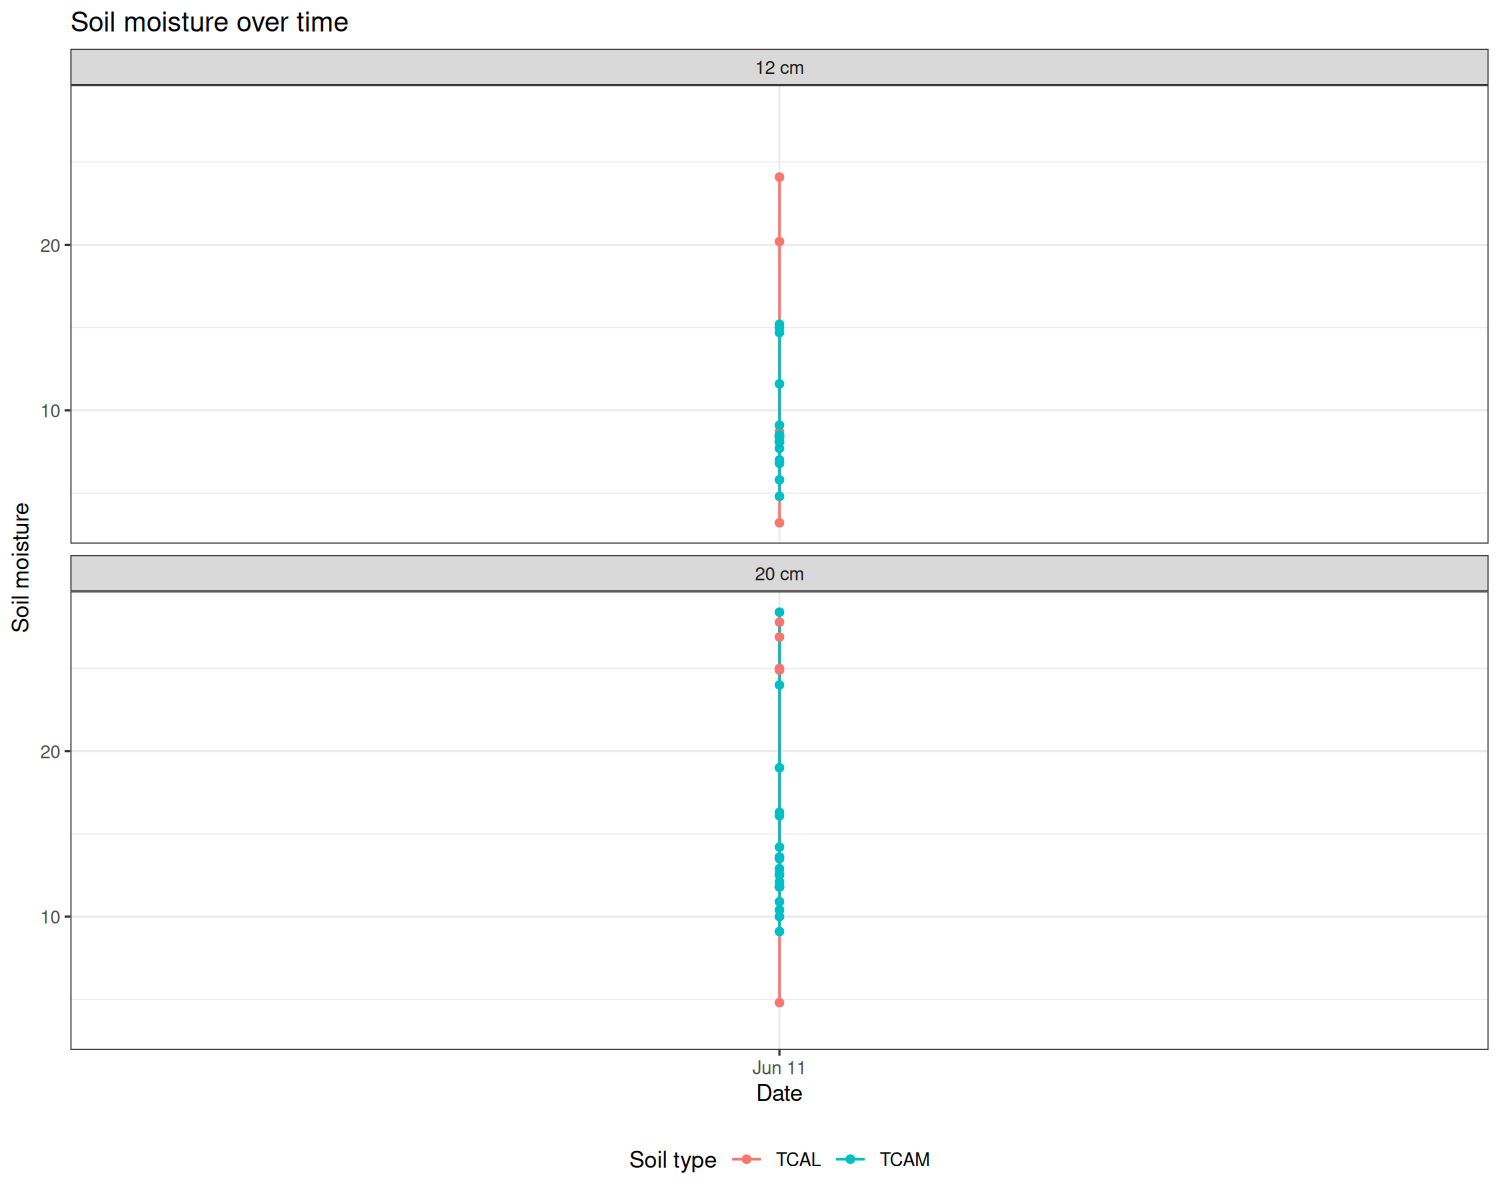
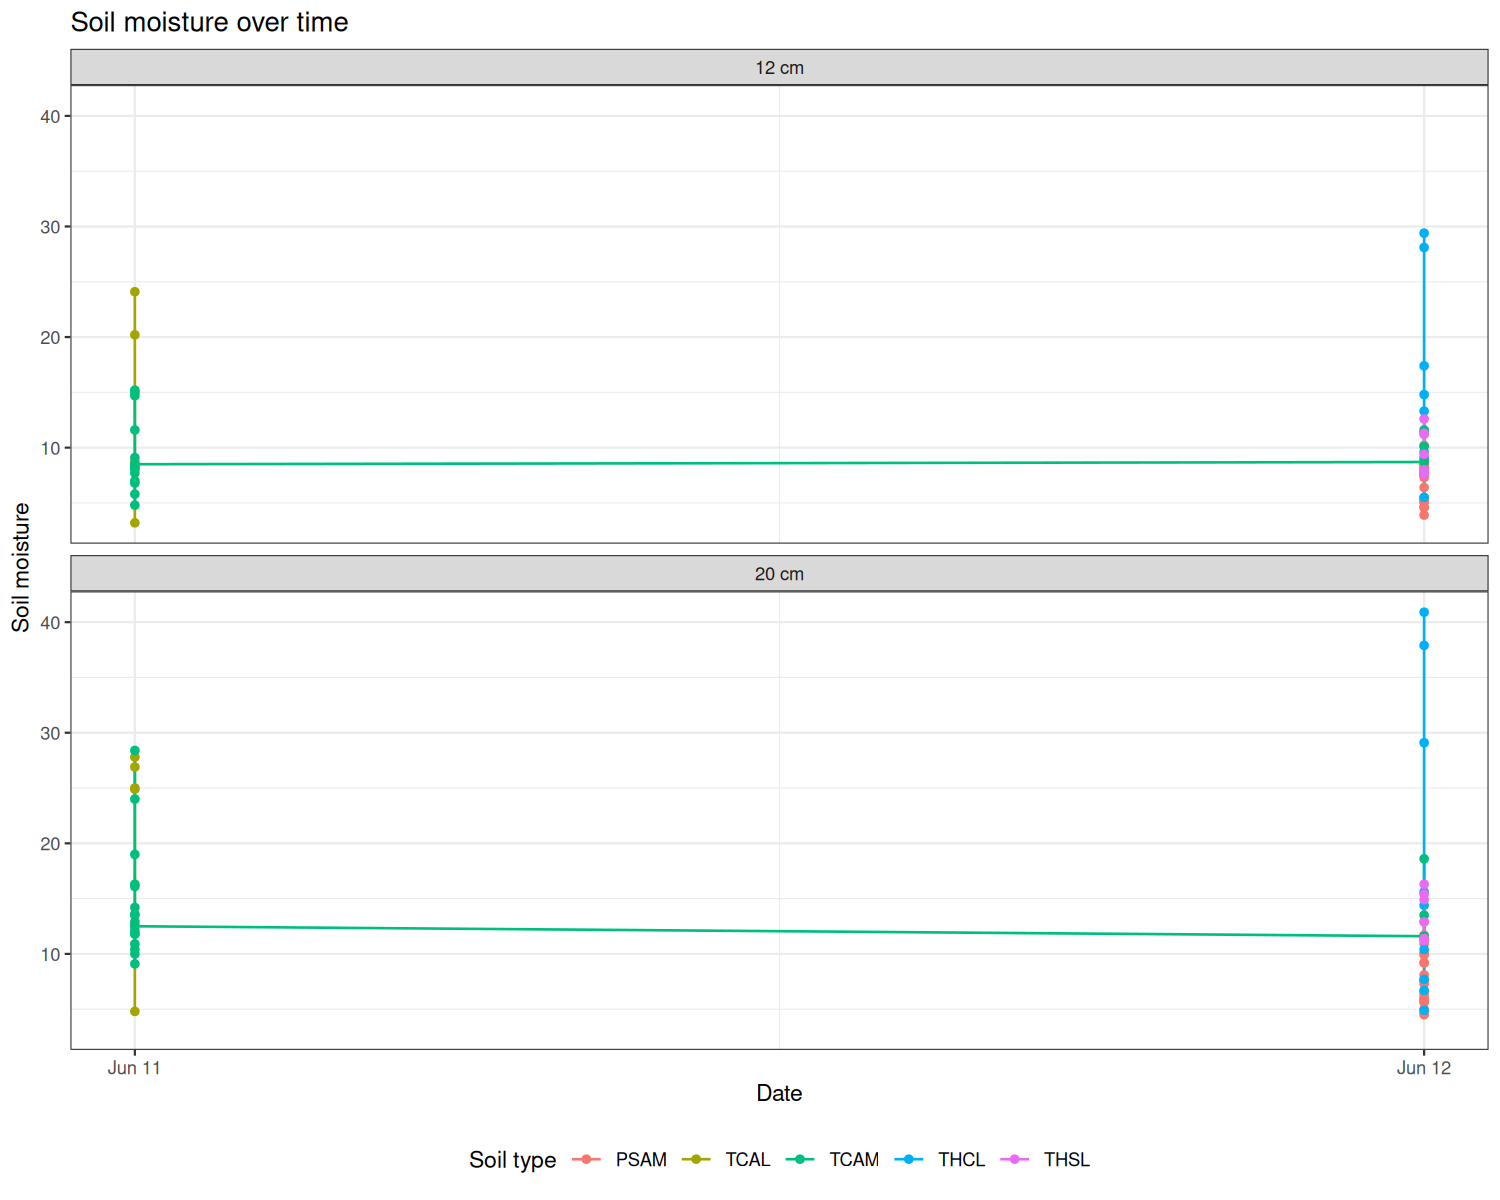
[auto] update summary figures 2026-07-01

diff --git a/README.md b/README.md
@@ -21,7 +21,7 @@ productivity than climate variables alone.
 | Data type | Last update | Row count |
 |---|---|---|
 | Infiltration field data | 2026-05-28 | 75 |
-| Soil moisture | 2026-06-11 | 53 |
+| Soil moisture | 2026-06-12 | 131 |
 | Hyperspectral indices | — | 0 |
 | Jmax / Vcmax | — | — |
 
